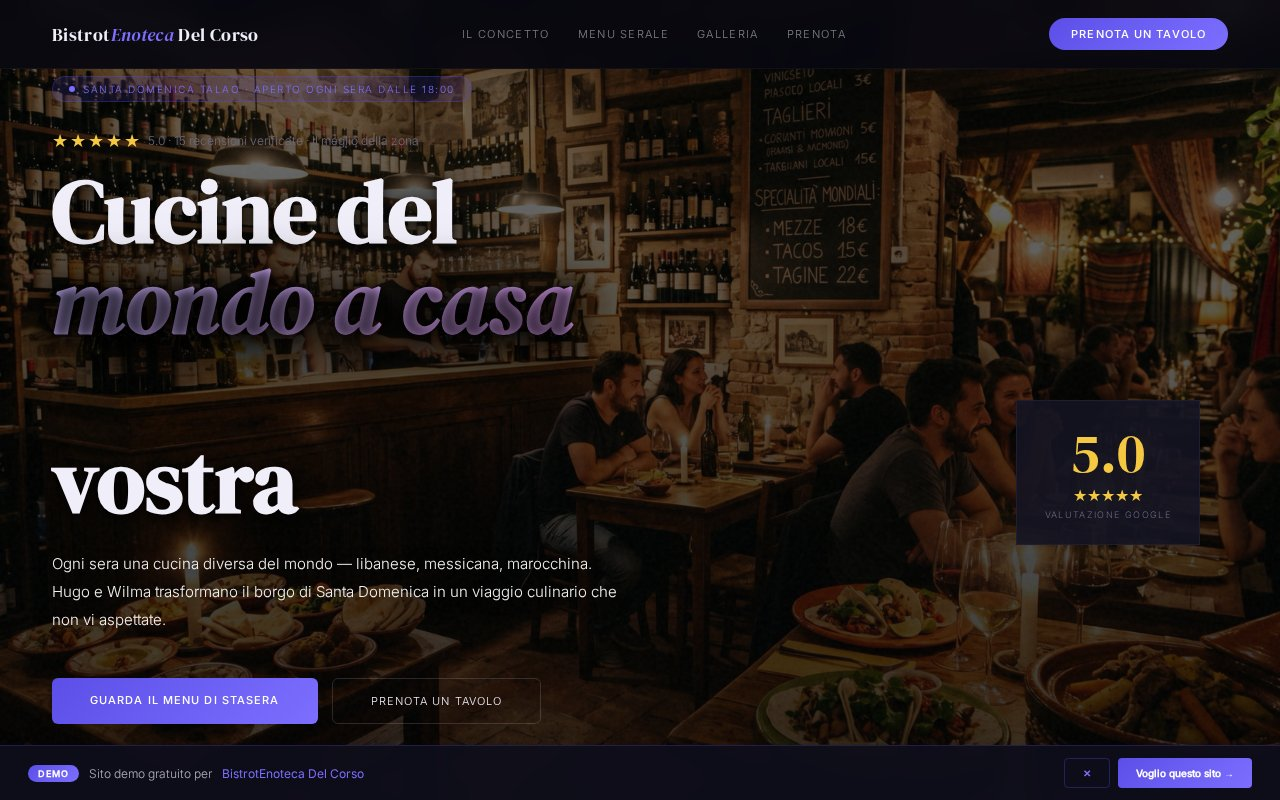
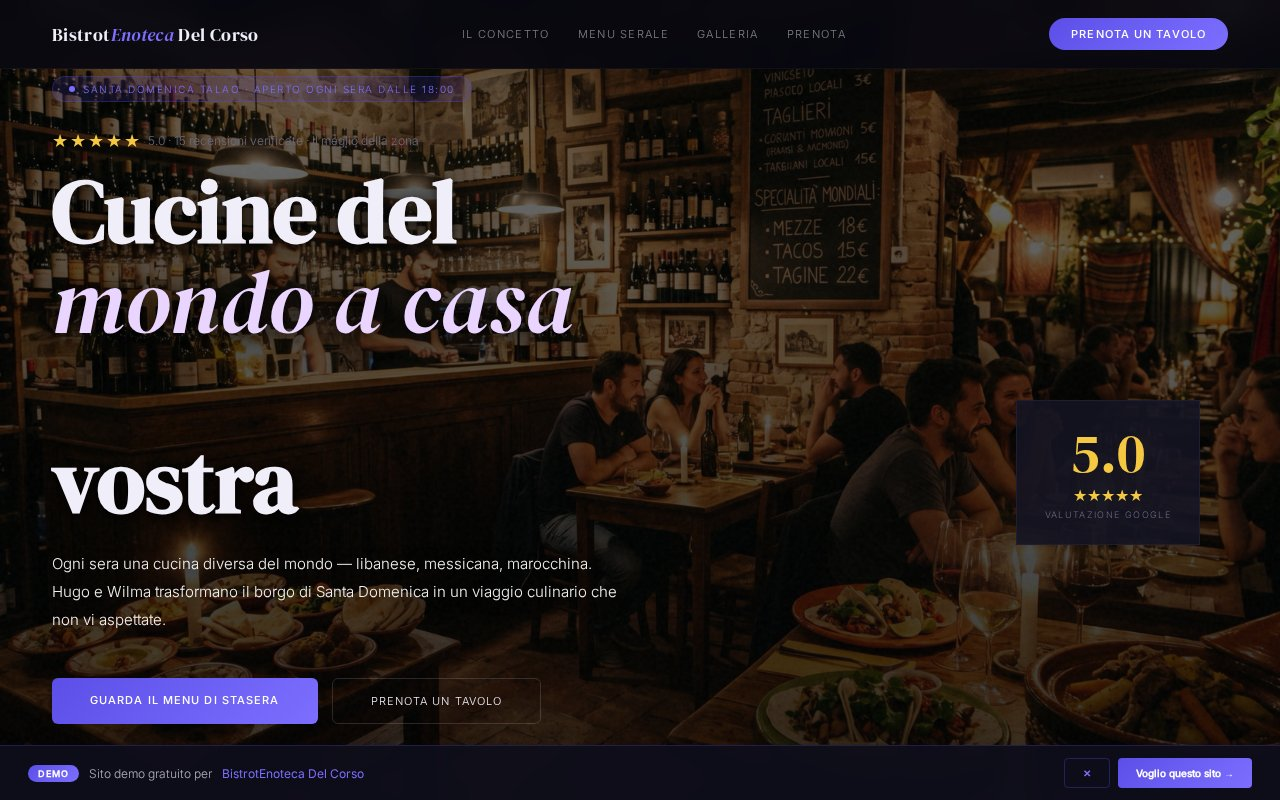
bistrot: solid bright lavender for 'mondo a casa' + stronger shadow

Changed region(s): [[0.0312, 0.3125, 0.4688, 0.4688]]

diff --git a/bistrot/index.html b/bistrot/index.html
@@ -55,7 +55,7 @@ nav{position:fixed;top:0;left:0;right:0;z-index:100;padding:18px 52px;display:fl
 .hero-title{font-family:'DM Serif Display',serif;font-size:clamp(44px,7vw,88px);line-height:1.02;margin-bottom:24px;text-shadow:0 4px 30px rgba(0,0,0,.8),0 2px 10px rgba(0,0,0,.6);opacity:0;animation:fl .8s ease .6s forwards}
 .hero-tag{text-shadow:0 2px 15px rgba(0,0,0,.6)}
 .hero-rating-text{text-shadow:0 2px 15px rgba(0,0,0,.6)}
-.hero-title em{font-style:italic;display:block;background:linear-gradient(135deg,#C4B5FD,#F0A6FF);-webkit-background-clip:text;-webkit-text-fill-color:transparent;background-clip:text;filter:drop-shadow(0 4px 30px rgba(0,0,0,.8)) drop-shadow(0 2px 10px rgba(0,0,0,.6))}
+.hero-title em{font-style:italic;display:block;color:#E9D5FF;font-weight:500;text-shadow:0 4px 40px rgba(0,0,0,.9),0 2px 15px rgba(0,0,0,.7)}
 .hero-desc{font-size:15px;line-height:1.85;color:rgba(255,255,255,.95);margin-bottom:44px;text-shadow:0 2px 15px rgba(0,0,0,.6);opacity:0;animation:fl .8s ease .8s forwards}
 .hero-btns{display:flex;gap:14px;flex-wrap:wrap;opacity:0;animation:fl .8s ease 1s forwards}
 .btn-grad{background:linear-gradient(135deg,var(--purple),var(--violet));color:white;border:none;padding:15px 38px;font-size:11px;font-weight:500;letter-spacing:.1em;text-transform:uppercase;cursor:pointer;border-radius:6px;transition:all .3s;font-family:'Inter',sans-serif;text-decoration:none;display:inline-block}
